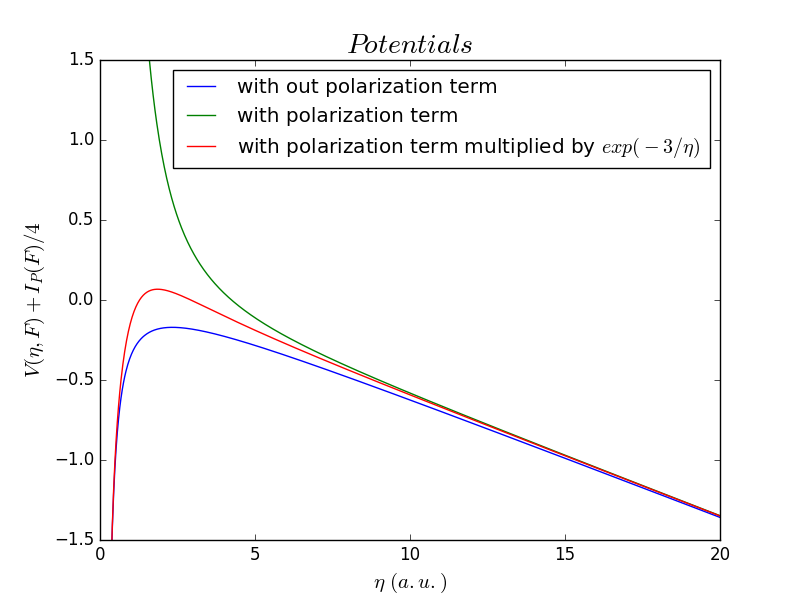
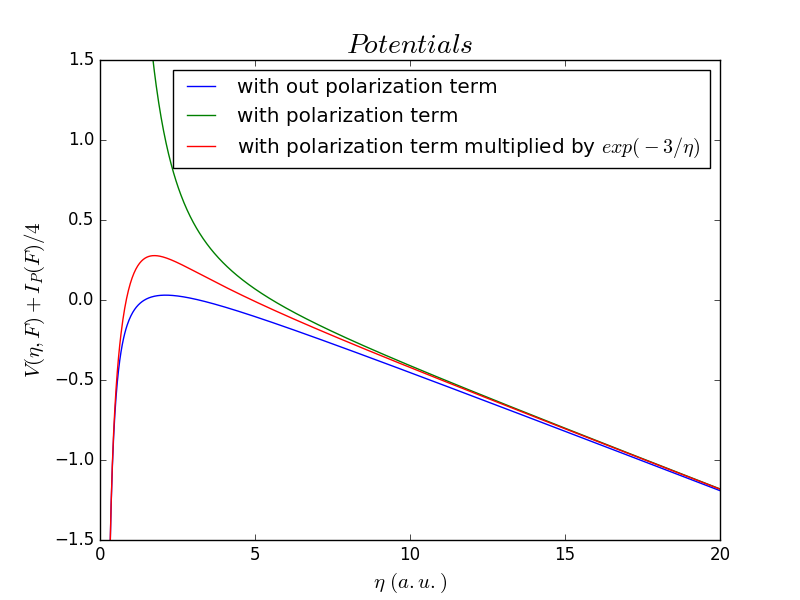
potentials explained

diff --git a/Times/Pot_comparison.py b/Times/Pot_comparison.py
@@ -7,24 +7,16 @@ import sys
 
 
 #print(integrate((1-(a*q)**12)*exp(-(b*q)**2)*(1/q)*sin(q*r),(q,0,oo)))
-
-a=0.316E-5
-b=0.675E-5
-
+"""
+---------------------------CONSTANTS AND VARIABLES------------------------------
+"""
 B=0.529/2
-A=1.75E-5
+A=2E-5
 
+a=0.316#0
+b=0.675#0
 
-c0=-np.sqrt(np.pi)*pow(a,12)/(4*pow(b,13))
-c1=10395.0/32
-c2=-17325/(64*pow(b,2))
-c3=3465/(64*pow(b,4))
-c4=-495/(128*pow(b,6))
-c5=55/(512*pow(b,8))
-c6=-1/(1024*pow(b,10))
-
-
-r=np.linspace(1E-6,2,10000)
+r=np.linspace(1E-20,15,10000)
 
 alphaI=7.2
 alphaN=11.08
@@ -34,57 +26,113 @@ Io=0.58
 
 
 
+"""
+    -----------------------------FUNCTIONS-------------------------------
+"""
 def I(F):
-
+    
     return Io + (F**2)/(2*(alphaN-alphaI))
 
 def nucleus_func(r,a,b):
     
-    return (c0*(c1+c2*r**2+c3*r**4+c4*r**6+c5*r**8+c6*r**10)*np.exp(-(r**2)/(4*b**2)) +0.5*np.pi*erf(r/(2*b))/r)
+    c0=-pow(a,12)/(8*pow(b,13)*pow(np.pi,1.5))
+    c1=10395.0/32
+    c2=-17325/(64*pow(b,2))
+    c3=3465/(64*pow(b,4))
+    c4=-495/(128*pow(b,6))
+    c5=55/(512*pow(b,8))
+    c6=-1.0/(1024*pow(b,10))
+    
+    return (c0*(c1+c2*r**2+c3*r**4+c4*r**6+c5*r**8+c6*r**10)*np.exp(-(r**2)/(4*b**2)) +erf(r/(2*b))/(4*np.pi*r))*2*(np.pi)**2
 
 def e_func(r,leng):
-
-
+    
+    
     V=np.zeros(leng)
-
+    
     for i in range(leng):
         
         if(r[i]<=A):
             V[i]=0
         if(r[i]<=0.5 and r[i]>A):
-            V[i]=-1/B -( (B**2-r[i]**2)/2 -(A**3)*(1/r[i]-1/B))
+            V[i]=1/B +( (B**2-r[i]**2)/2 -(A**3)*(1/r[i]-1/B))
         if(r[i]>B):
-            V[i]=-1/r[i]
-
+            V[i]=+1/r[i]
+    
     return V
 
 
 
+"""
+----------------------------POTENTIAL FOR THE NUCLEUS---------------------------------------
+"""
 
 
 
+
+r=np.linspace(1E-6,15,1000)
 
 Vfs=-2*nucleus_func(r,a,b) #+ e_func(r,len(r))
 
 V=-2/r
 
-plt.plot(r,Vfs-V,label="finite size")
-plt.plot(r,V,label="Coulomb")
+plt.plot(r,Vfs,"r--",label="finite size")
+plt.plot(r,V,"k",label="Coulomb")
 plt.xlim(min(r),max(r))
-plt.ylim(-15,4)
-plt.xlabel("$ r (Angstroms)  $",size=15)
+plt.ylim(min(Vfs)*1.1,0)
+##plt.ylim(-30,0)##
+plt.xlabel("$ r $",size=15)
 plt.ylabel("$ V(r) $",size=15)
 plt.title("$ V_{FS}\ Vs.\ Coulomb  $")
-plt.savefig("comparing_potentials.png")
+plt.savefig("comparing_potentials_nucleus.png")
 plt.legend(loc=4)
 plt.show()
 plt.close()
 
+
+
+"""
+----------------------------POTENTIAL FOR THE ELECTRON---------------------------------------
+"""
+
+
+
+r=np.linspace(1E-6,5,100)
+
+Vfs=e_func(r,len(r))
+
+V=1/r
+
+plt.plot(r,Vfs,"r.",label="Cloud potential")
+plt.plot(r,V,"k--",label="Coulomb")
+plt.xlim(min(r),max(r))
+plt.ylim(0,max(Vfs)*1.1)
+plt.xlabel("$ r $",size=15)
+plt.ylabel("$ V(r) $",size=15)
+plt.title("$ V_{FS}+V_e\ Vs.\ Coulomb  $")
+plt.savefig("comparing_potentials_electron.png")
+plt.legend(loc=1)
+plt.show()
+plt.close()
+
+
+"""
+----------------------------POTENTIAL FOR THE ION---------------------------------------
+"""
+
+
+
+a=0.316E-5
+b=0.675E-5
+r=np.linspace(1E-6,15,1000)
+
+
+
 Vfs=-2*nucleus_func(r,a,b) + e_func(r,len(r))
 
-V=-2/r
+V=-1/r
 
-plt.plot(r,Vfs-V,label="finite size")
+plt.plot(r,Vfs,label="finite size")
 plt.plot(r,V,label="Coulomb")
 plt.xlim(min(r),max(r))
 plt.ylim(-10,0)
@@ -96,9 +144,9 @@ plt.legend(loc=4)
 plt.show()
 plt.close()
 
-
-
 """
+
+
 Vfs=-2*I(F)*func(r)-(alphaI*F/r**2)+F*r
 V=-2*I(F)/abs(r1) -(alphaI*F/r1**2)+F*r1
 
@@ -110,4 +158,13 @@ plt.savefig("comparing_potentials.png")
 plt.legend()
 plt.show()
 """
+
+
+
+
+
+
+
+
+
 

diff --git a/Times/form-factor.py b/Times/form-factor.py
@@ -1,0 +1,62 @@
+import matplotlib.pyplot as plt
+import matplotlib.gridspec as gridspec
+import numpy as np
+from sympy import *
+from sympy.abc import r,q
+from sympy.integrals.transforms import fourier_transform
+
+
+
+#a=0.316 # fermi
+#b=0.675 # fermi
+
+
+
+
+
+Integ=integrate((1-(a*q)**12)*exp(-(b*q)**2)*q*sin(q*r),(q,0,oo))
+
+value=integrate(q*sin(r*q),(q,0,oo))
+
+print("value=",Integ)
+
+
+#a=0.316 # fermi
+#b=0.675 # fermi
+
+def func(r):
+
+    return (1/(np.sqrt(np.pi)**3))*  ((-4.5E-5)*(0.027*r**12 - 1.939*r**10 + 48.606*r**8 - 531.516*r**6 + 2542.803*r**4 - 4634.259*r**2  + 135135.0/64)*np.exp(-0.5487*r**2) + 0.4065* np.exp(-0.5487*r**2))
+
+
+r=np.linspace(0.1,15)
+V=-func(r)
+
+
+
+gs = gridspec.GridSpec(2, 2)
+ax1 = plt.subplot(gs[0, 0])
+ax2 = plt.subplot(gs[0, 1])
+ax3 = plt.subplot(gs[1,: ])
+
+ax1.set_title("finite size")
+ax1.plot(r,V,"r")
+ax1.set_ylabel("$ V(ev)   $")
+ax1.set_xlabel("$ r(rm)   $")
+
+
+ax2.plot(r,-1/r)
+ax2.set_title("Coulomb")
+ax2.set_xlabel("$ r(rm)   $")
+
+
+
+plt.plot(r,-1/r)
+ax3.plot(r,V,"r")
+ax3.set_ylabel("$ V(ev)   $")
+ax3.set_xlabel("$ r(rm)   $")
+
+
+plt.savefig("finite_vs_coulomb.png")
+plt.show()
+plt.close()

diff --git a/Times/potential_parabolic.py b/Times/potential_parabolic.py
@@ -27,7 +27,7 @@ def potential(F,n,A,B):
 
 def I(F):
 
-    return Io + (F**2)/(2*(alphaN-alphaI))
+    return Io + ((alphaN-alphaI)*F**2)/(2)
 
 
 
